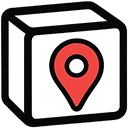
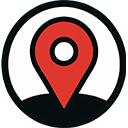
refactor: updated branding to Maps & Locations

diff --git a/apps/nextjs/src/app/privacy-policy/page.tsx b/apps/nextjs/src/app/privacy-policy/page.tsx
@@ -9,29 +9,43 @@ export default function PrivacyPolicy() {
         <p>
           This Privacy Policy explains how we collect, use, disclose, and
           safeguard your information when you use our website{" "}
-          {env.NEXT_PUBLIC_SITE_URL} (the &quot;Service&quot;). By using the
-          Service, you agree to the collection and use of information in
-          accordance with this policy.
+          {env.NEXT_PUBLIC_SITE_URL} and our Google Chrome extension
+          (collectively, the &quot;Service&quot;). By using the Service, you
+          agree to the collection and use of information in accordance with this
+          policy.
+        </p>
+        <p>
+          <strong>Important:</strong> Maps & Locations is an independent
+          third-party integration that is not affiliated with, endorsed by, or
+          certified by Notion. We connect to your personal Notion workspace to
+          provide our services.
         </p>
         <h2>1. Information We Collect</h2>
         <ul>
           <li>
-            <strong>Account Information:</strong> When you sign in with Notion,
-            we collect your name, email address, and Notion workspace details.
+            <strong>Account Information:</strong> When you connect your Notion
+            workspace, we collect your name, email address, and Notion workspace
+            details.
+          </li>
+          <li>
+            <strong>Location Data:</strong> Through our Chrome extension, we
+            collect location information from Google Maps that you choose to
+            save, including place names, addresses, coordinates, and associated
+            metadata.
           </li>
           <li>
             <strong>Notion Data:</strong> With your permission, we access and
-            process content from your Notion workspace as required to provide
-            our Service.
+            write data to your personal Notion workspace as required to save
+            your locations and provide our Service.
           </li>
           <li>
             <strong>Usage Data:</strong> We may collect information about how
-            you use the Service, such as access times, pages viewed, and device
-            information.
+            you use the Service (both website and extension), such as access
+            times, pages viewed, extension usage, and device information.
           </li>
           <li>
             <strong>Cookies & Tracking:</strong> We use cookies and similar
-            tracking technologies to enhance your experience.
+            tracking technologies to enhance your experience on our website.
           </li>
         </ul>
         <h2>2. How We Use Your Information</h2>
@@ -81,9 +95,26 @@ export default function PrivacyPolicy() {
         </ul>
         <h2>6. Third-Party Services</h2>
         <p>
-          Our Service may contain links to third-party sites or services. We are
-          not responsible for their privacy practices.
+          Our Service integrates with and relies on third-party services
+          including:
         </p>
+        <ul>
+          <li>
+            <strong>Notion:</strong> We connect to your personal Notion
+            workspace to save location data. Your use of Notion is governed by
+            Notion's own terms of service and privacy policy.
+          </li>
+          <li>
+            <strong>Google Maps:</strong> Our Chrome extension operates on
+            Google Maps to capture location data. Your use of Google Maps is
+            governed by Google's terms of service and privacy policy.
+          </li>
+          <li>
+            <strong>Other Services:</strong> Our Service may contain links to
+            other third-party sites or services. We are not responsible for
+            their privacy practices.
+          </li>
+        </ul>
         <h2>7. Children&apos;s Privacy</h2>
         <p>
           Our Service is not intended for children under 13. We do not knowingly

diff --git a/apps/nextjs/src/app/page.tsx b/apps/nextjs/src/app/page.tsx
@@ -31,7 +31,7 @@ const features = [
       },
       {
         icon: <CheckCircle className="mr-2 h-4 w-4" />,
-        description: "Automatic Notion integration",
+        description: "Connects to your Notion workspace",
       },
       {
         icon: <CheckCircle className="mr-2 h-4 w-4" />,
@@ -69,7 +69,7 @@ const features = [
       },
       {
         icon: <CheckCircle className="mr-2 h-4 w-4" />,
-        description: "Direct Notion integration",
+        description: "Direct connection to Notion",
       },
       {
         icon: <CheckCircle className="mr-2 h-4 w-4" />,
@@ -86,12 +86,12 @@ export default function Home() {
         <div className="flex items-center justify-center gap-2 sm:justify-start">
           <Image
             src="/logo.png"
-            alt="Notion Locations"
+            alt="Maps & locations"
             width={23}
             height={23}
           />
           <span className="text-lg font-bold text-gray-900">
-            Notion Locations
+            Maps & Locations
           </span>
         </div>
         <div className="hidden items-center justify-end gap-1 sm:flex">
@@ -137,6 +137,10 @@ export default function Home() {
             Save Google Maps locations
             <span className=""> to Notion.</span>
           </h1>
+          <p className="text-muted-foreground mb-4 text-xs">
+            *Independent third-party integration - not affiliated with, endorsed
+            by, or certified by Notion
+          </p>
           <SignedIn>
             <Suspense fallback={<div>Loading...</div>}>
               <div className="pt-4 text-left">
@@ -149,7 +153,8 @@ export default function Home() {
               <SignInButton>
                 <button className="cursor-pointer underline">Sign in</button>
               </SignInButton>{" "}
-              with <span className="font-medium">Notion</span>.{" "}
+              to connect your <span className="font-medium">Notion</span>{" "}
+              workspace.{" "}
               <a className="underline" href="#download">
                 Download
               </a>{" "}
@@ -180,8 +185,9 @@ export default function Home() {
               Everything you need to organize your locations
             </h2>
             <p className="mx-auto max-w-2xl text-lg text-gray-600">
-              A powerful combination of a Chrome extension and web app to make
-              location management effortless.
+              A powerful combination of a Chrome extension and web app that
+              connects to your Notion workspace to make location management
+              effortless.
             </p>
           </div>
 
@@ -203,7 +209,8 @@ export default function Home() {
               </h2>
               <p className="mx-auto max-w-2xl text-lg text-gray-600">
                 Create your account and install the Chrome extension to start
-                saving locations from Google Maps to your Notion workspace.
+                saving locations from Google Maps directly to your personal
+                Notion workspace.
               </p>
             </div>
 
@@ -354,7 +361,7 @@ export default function Home() {
             Support the project
           </h2>
           <p className="mb-8 text-lg text-balance text-gray-600">
-            Notion Locations is completely free and open source. If you find it
+            Maps & locations is completely free and open source. If you find it
             useful, consider supporting its development.
           </p>
           <div className="flex flex-col justify-center gap-4 sm:flex-row">
@@ -392,7 +399,7 @@ export default function Home() {
             <Link className="hover:underline" href="/terms-of-use">
               Terms of Use
             </Link>
-            <div>&copy; {new Date().getFullYear()} Notion Locations</div>
+            <div>&copy; {new Date().getFullYear()} Maps & locations</div>
           </div>
         </div>
       </footer>

diff --git a/apps/nextjs/src/app/terms-of-use/page.tsx b/apps/nextjs/src/app/terms-of-use/page.tsx
@@ -8,9 +8,16 @@ export default function TermsOfUse() {
         <p>Last updated: {new Date().toLocaleDateString()}</p>
         <p>
           These Terms of Use (&quot;Terms&quot;) govern your access to and use
-          of our website {env.NEXT_PUBLIC_SITE_URL} (the &quot;Service&quot;).
-          By accessing or using the Service, you agree to be bound by these
-          Terms. If you do not agree, please do not use the Service.
+          of our website {env.NEXT_PUBLIC_SITE_URL} and our Google Chrome
+          extension (collectively, the &quot;Service&quot;). By accessing or
+          using the Service, you agree to be bound by these Terms. If you do not
+          agree, please do not use the Service.
+        </p>
+        <p>
+          <strong>Important:</strong> Maps & Locations is an independent
+          third-party integration that is not affiliated with, endorsed by, or
+          certified by Notion. We provide tools that connect to your personal
+          Notion workspace.
         </p>
         <h2>1. Use of the Service</h2>
         <ul>
@@ -26,9 +33,12 @@ export default function TermsOfUse() {
         </ul>
         <h2>2. Description of Service</h2>
         <p>
-          Our Service allows you to connect your Notion account and interact
-          with your Notion data in new ways. The Service is provided &quot;as
-          is&quot; and may be updated, changed, or discontinued at any time.
+          Our Service consists of a website and Chrome extension that allows you
+          to save locations from Google Maps directly to your personal Notion
+          workspace. The Service enables you to capture location data including
+          place names, addresses, and related information, and organize them in
+          your Notion databases. The Service is provided &quot;as is&quot; and
+          may be updated, changed, or discontinued at any time.
         </p>
         <h2>3. User Responsibilities</h2>
         <ul>
@@ -38,21 +48,34 @@ export default function TermsOfUse() {
           </li>
           <li>
             You must not use the Service to violate any laws or third-party
-            rights, including Notion&apos;s terms and policies.
+            rights, including Notion&apos;s terms and policies and Google&apos;s
+            terms and policies.
           </li>
           <li>
             You must not attempt to gain unauthorized access to any part of the
-            Service or its systems.
+            Service, its systems, or connected third-party services.
+          </li>
+          <li>
+            You are responsible for ensuring you have the right to save and
+            store the location data you capture using our Service.
           </li>
         </ul>
         <h2>4. Restrictions</h2>
         <ul>
-          <li>No reverse engineering, copying, or reselling the Service.</li>
+          <li>
+            No reverse engineering, copying, modification, or reselling the
+            Service or Chrome extension.
+          </li>
           <li>
             No use of the Service for illegal, harmful, or abusive activities.
           </li>
           <li>
-            No interference with the operation or security of the Service.
+            No interference with the operation or security of the Service or
+            connected third-party services.
+          </li>
+          <li>
+            No automated or excessive use that could overload our systems or
+            connected services.
           </li>
         </ul>
         <h2>5. Intellectual Property</h2>

diff --git a/apps/nextjs/src/app/layout.tsx b/apps/nextjs/src/app/layout.tsx
@@ -26,8 +26,9 @@ const geistMono = Geist_Mono({
 });
 
 export const metadata: Metadata = {
-  title: "Notion Locations",
-  description: "Location mapping made easy in Notion.",
+  title: "Maps & Locations",
+  description:
+    "A third-party integration to save locations from Google Maps to your Notion workspace.",
 };
 
 export default function RootLayout({
